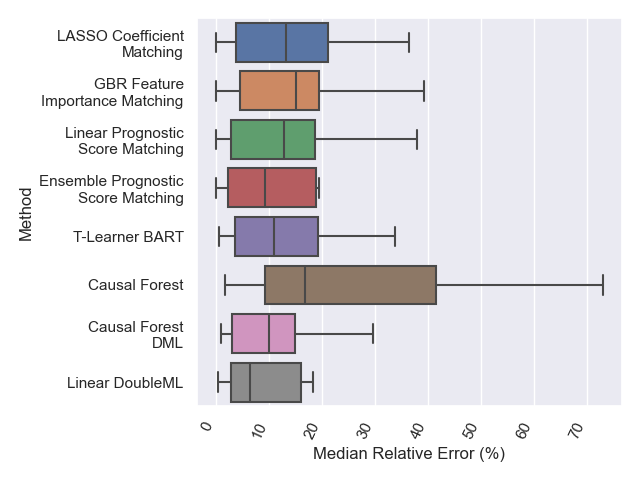
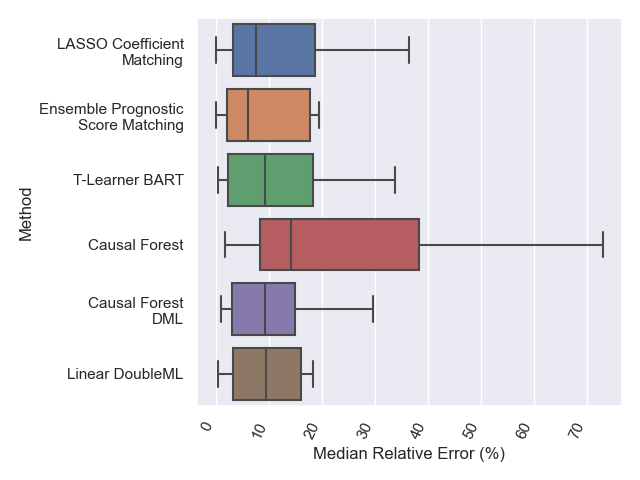
new plots

diff --git a/datagen/dgp_df.py b/datagen/dgp_df.py
@@ -91,9 +91,13 @@ def dgp_dense_mixed_endo_df(n, nci, ndi, ncu, ndu, std=1.5, t_imp=2, overlap=1, 
     return df_train.reset_index(drop=True), df_assess.reset_index(drop=True), df_true.reset_index(drop=True), x_cols, binary
 
 
-def dgp_learning_df(perc_train=None, n_train=None):
-    df = pd.read_csv(f'{os.getenv("LEARNING_FOLDER")}/df.csv')
-    print('hi')
+def dgp_school_df():
+    df = pd.read_csv(f'{os.getenv("SCHOOLS_FOLDER")}/df.csv')
+    categorical = ['schoolid', 'C1', 'C2', 'C3', 'XC']
+    df = df.rename(columns={'Z': 'T'})
+    continuous = [c for c in df.columns if c not in categorical + ['T', 'Y']]
+    df[continuous] = StandardScaler().fit_transform(df[continuous])
+    return pd.get_dummies(df, columns=categorical)
 
 
 def dgp_acic_2019_df(dataset_idx, perc_train=None, n_train=None, dummy_cutoff=10):

diff --git a/Experiments/schools/run.py b/Experiments/schools/run.py
@@ -1,0 +1,22 @@
+from datagen.dgp_df import dgp_learning_df
+
+from src.linear_coef_matching_mf import LCM_MF
+from other_methods import prognostic
+
+df = dgp_learning_df(n_train=0)
+
+lcm = LCM_MF(outcome='Y', treatment='T', data=df,
+             n_splits=10, n_repeats=1, random_state=0)
+
+# lcm.fit(model='linear')
+# lcm.MG(k=15)
+# lcm.CATE()
+# mean = lcm.cate_df['CATE_mean'].mean().mean()
+# std = lcm.cate_df['CATE_mean'].mean().std()
+# print(mean - 1.96*std)
+# print(mean + 1.96*std)
+
+prog = prognostic.prognostic_cv(outcome='Y', treatment='T', data=df,
+                                double=True, k_est=15, est_method='mean',
+                                gen_skf=lcm.gen_skf, random_state=0)
+print('hi')

diff --git a/Experiments/acic_error_and_runtime/plotting/errors.py b/Experiments/acic_error_and_runtime/plotting/errors.py
@@ -13,10 +13,10 @@ q = 0.5
 methods = [
     'LASSO Coefficient Matching',
     # 'Tree Feature Importance Matching',
-    'GBR Feature Importance Matching',
+    # 'GBR Feature Importance Matching',
     # 'GBR Single Model Feature Importance Matching',
     # 'Equal Weighted LASSO Matching',
-    'Linear Prognostic Score Matching',
+    # 'Linear Prognostic Score Matching',
     'Ensemble Prognostic Score Matching',
     'DoubleML',
     # 'DRLearner',
